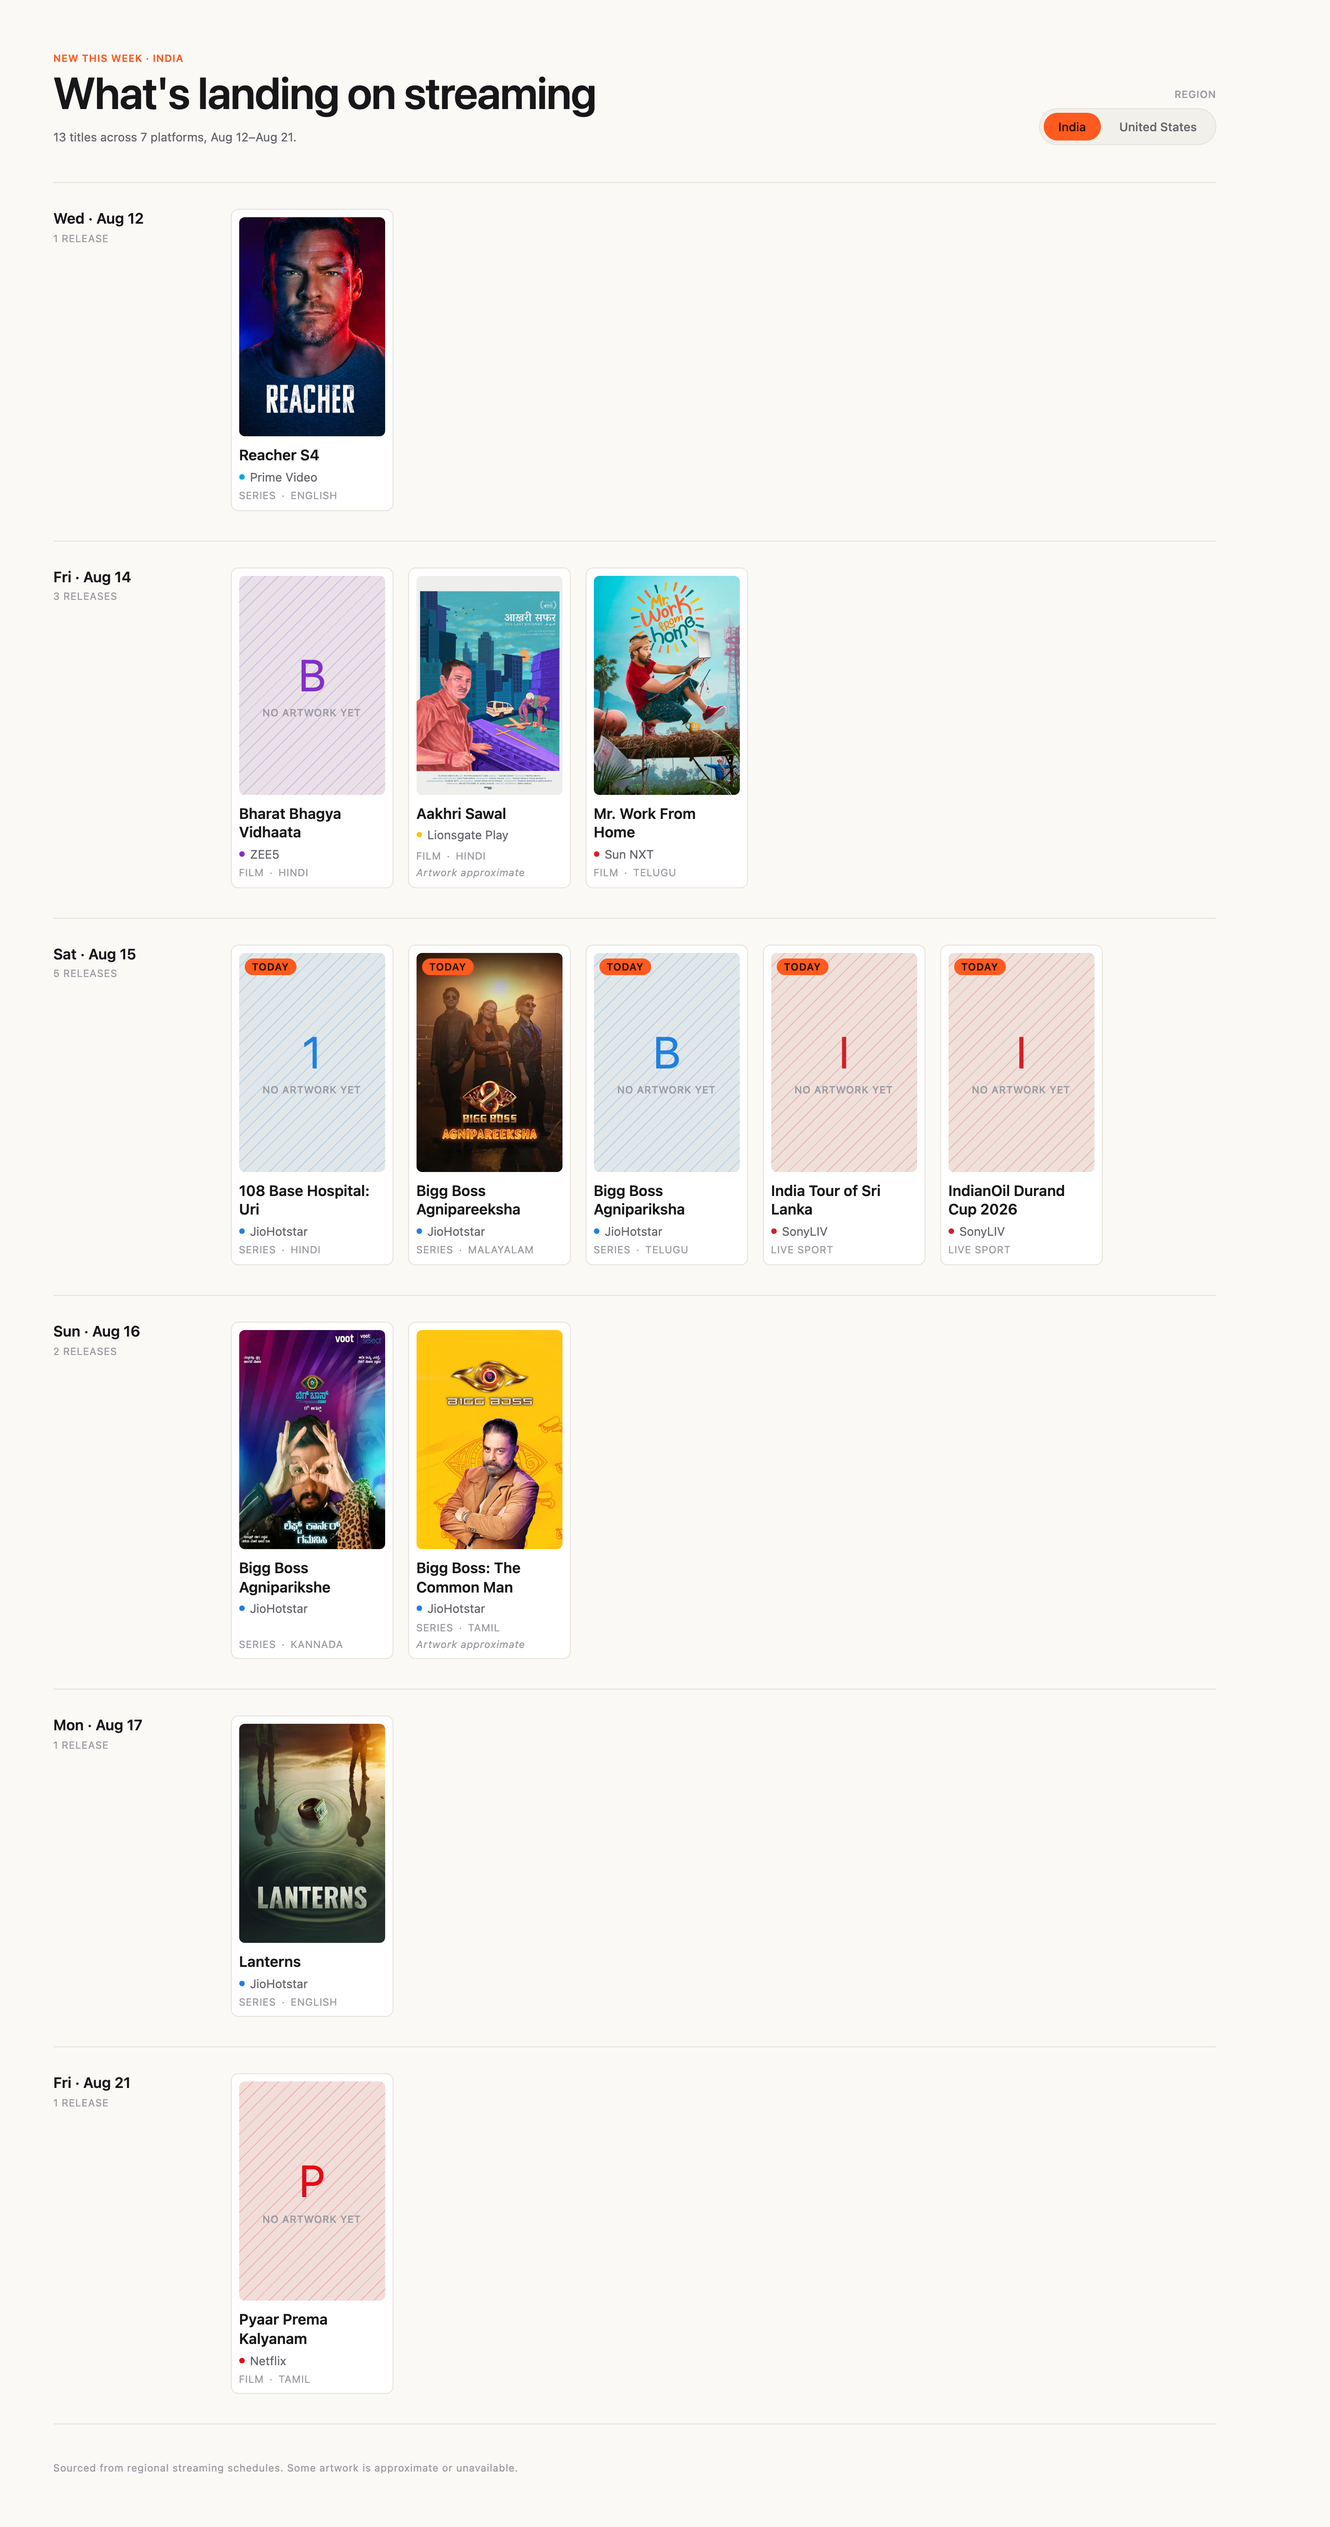
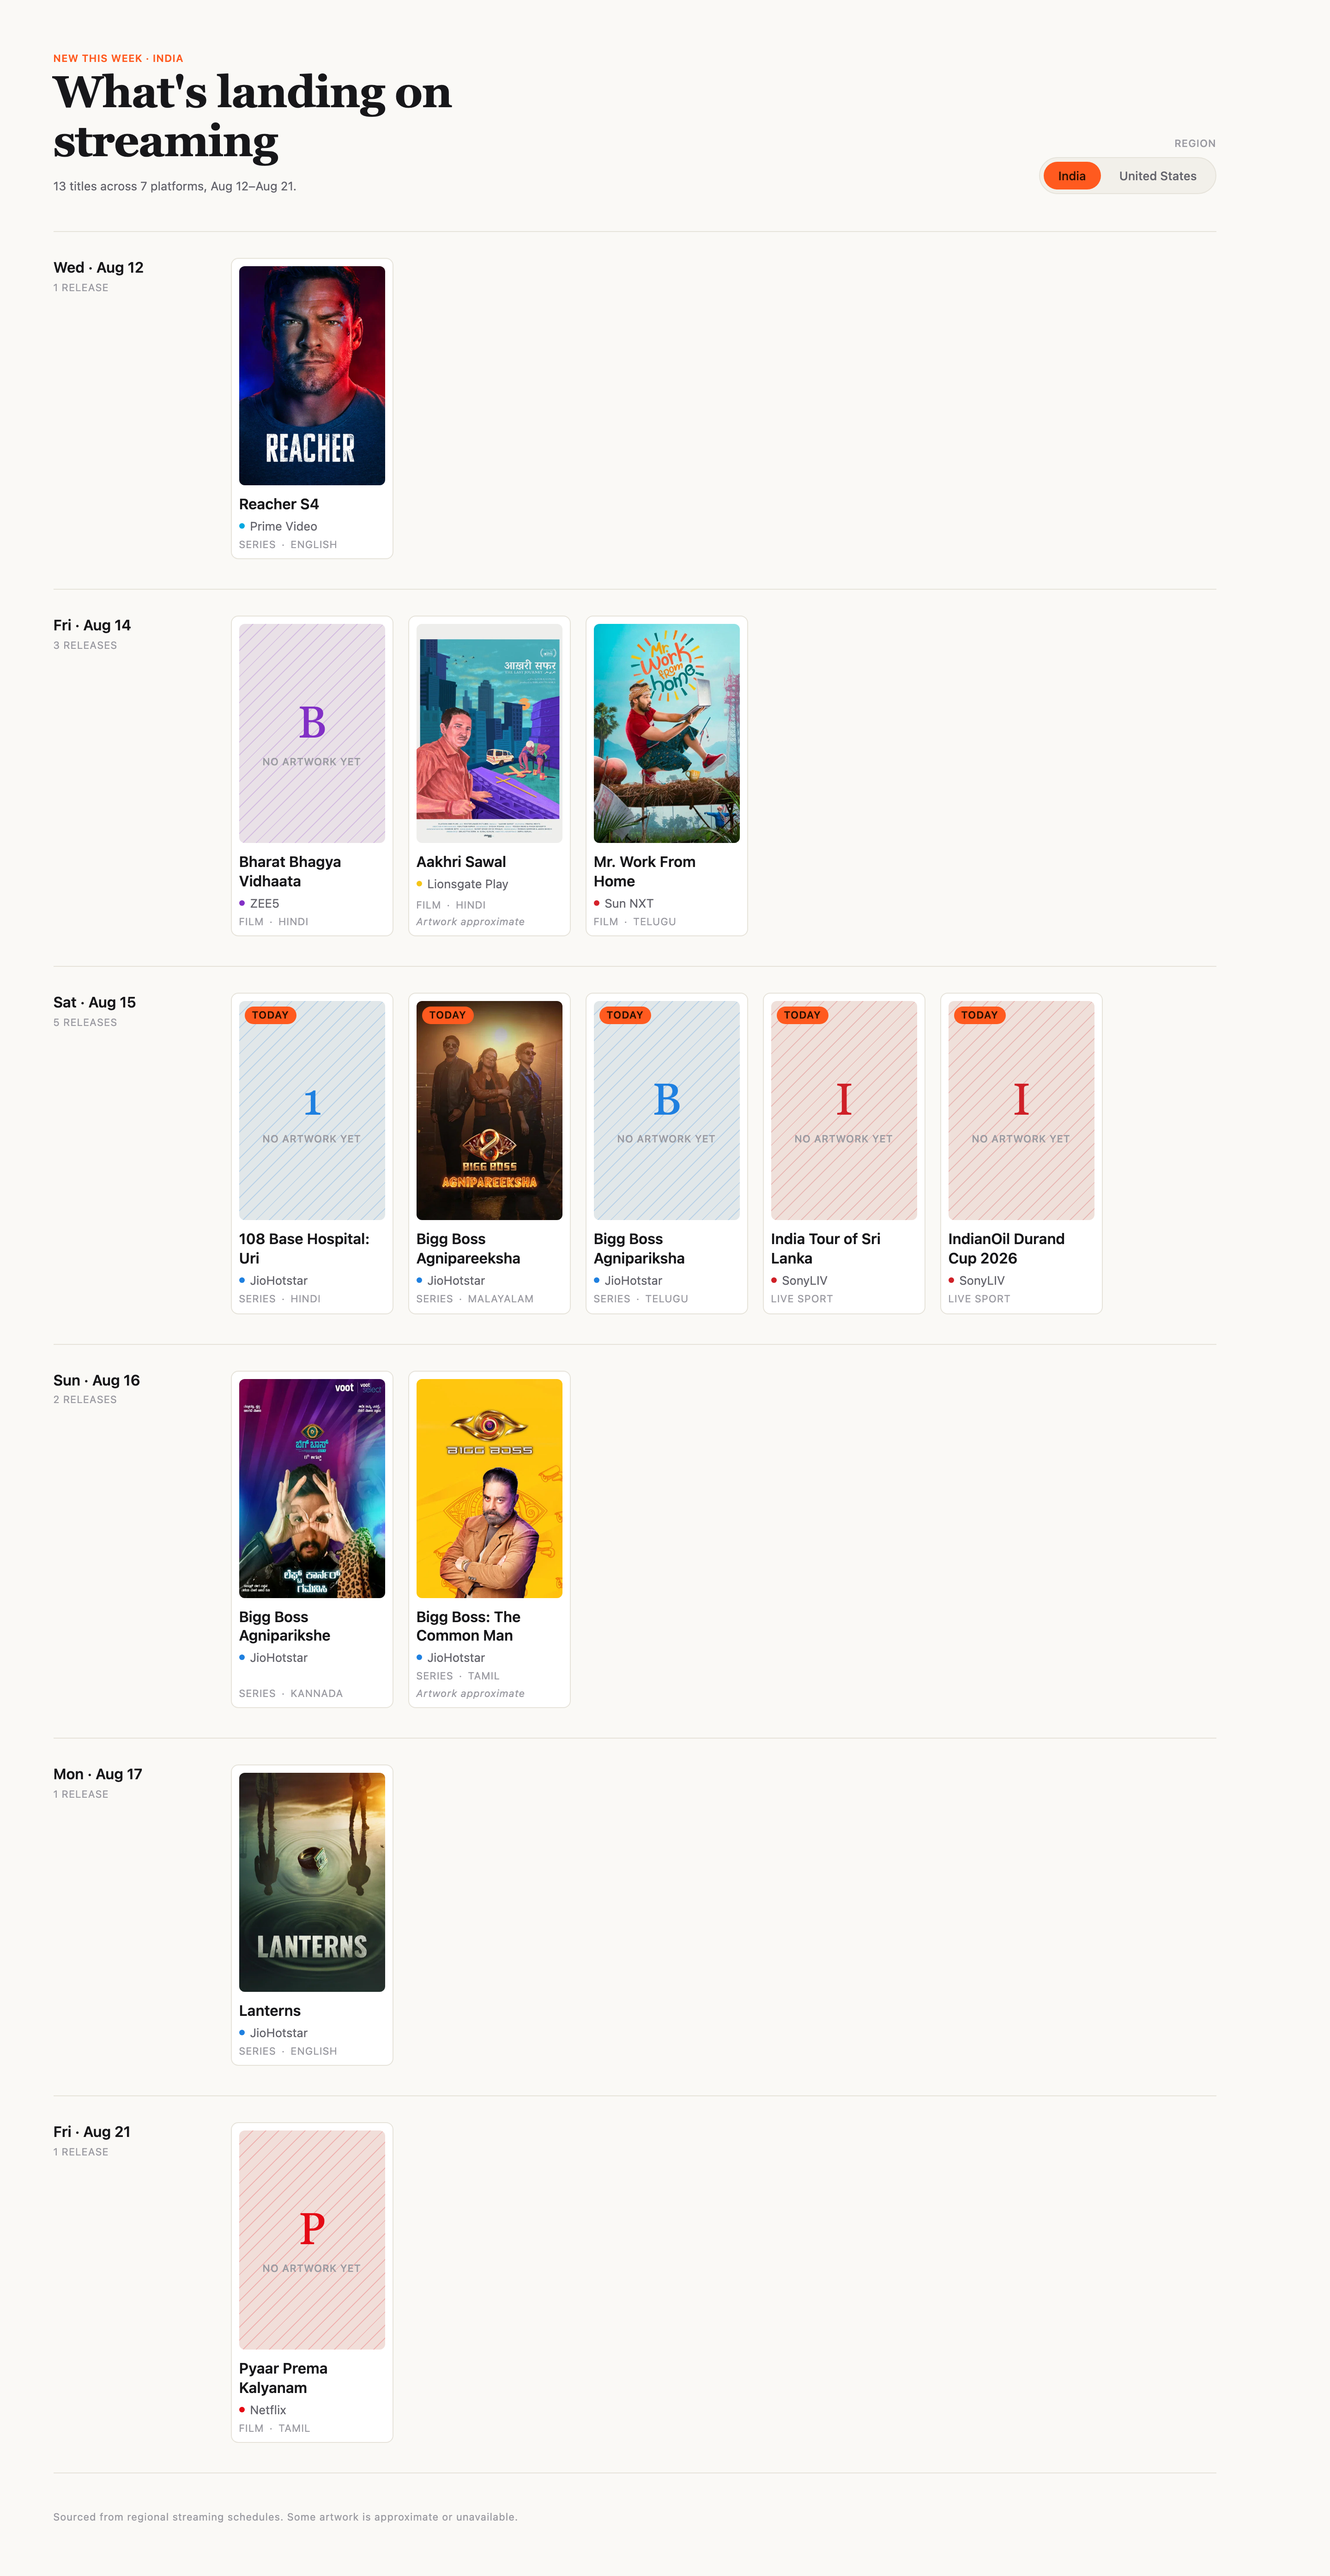
fix(lab/v1): move --font-display out of inert @theme block
@tailwindcss/vite only processes @theme at-rules inside the module
graph rooted at index.css; v1.css is a separate JS-imported stylesheet
it never transforms, so the @theme block shipped as literal, invalid
CSS text and --font-display resolved to nothing. Moved the token into
the existing plain custom-property block scoped to .v1-page (no
Tailwind processing needed, and scoping keeps it from leaking into
/v0 or other routes). Also removed the unused --shadow-color token.
Re-captured all six v1 screenshots to reflect the corrected serif
headline/monogram rendering.

diff --git a/lab/src/routes/v1/v1.css b/lab/src/routes/v1/v1.css
@@ -4,10 +4,13 @@
    hue is used across the page (a tangerine), chosen because it doesn't
    collide with any PLATFORMS.color in data/releases.js. */
 
-@theme {
-  --font-display: 'Georgia', 'Iowan Old Style', 'Times New Roman', serif;
-}
-
+/* Plain CSS custom properties scoped to .v1-page — not a Tailwind @theme
+   block. This file is imported via `import './v1.css'` in V1.jsx, which
+   @tailwindcss/vite never processes (only the module graph rooted at
+   index.css, the file with `@import "tailwindcss"`, is transformed). An
+   @theme block here would ship to the browser as literal, inert CSS text.
+   Scoping to .v1-page also keeps every token local to this route, so /v0
+   and the rest of the app are unaffected. */
 .v1-page {
   /* light (default) */
   --paper: #faf9f6;
@@ -20,7 +23,7 @@
   --border-strong: #d3cfc2;
   --accent: #ff5a1f;
   --accent-ink: #2a1000;
-  --shadow-color: 15 10% 10%;
+  --font-display: Georgia, 'Iowan Old Style', 'Times New Roman', serif;
 
   background: var(--paper);
   color: var(--ink);
